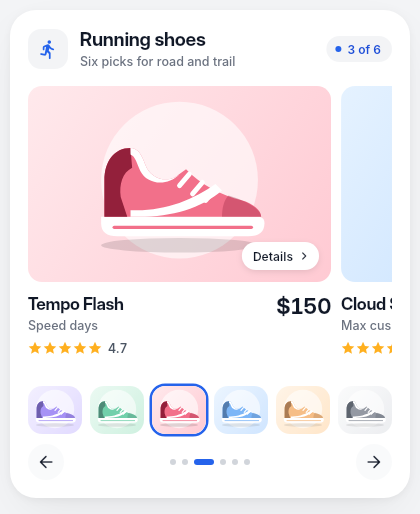
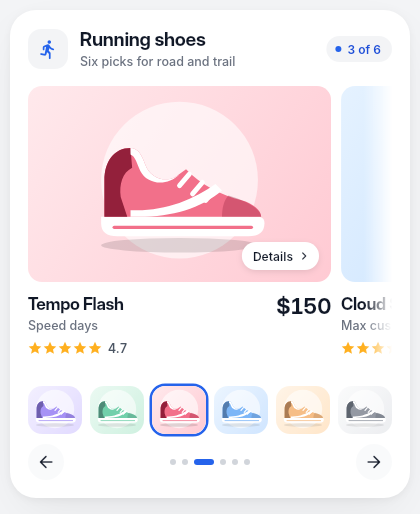
Cards: sideways scrollers fade at their edges by default (carousel, gallery strip, wide tables, comparison)
Claude-Session: https://claude.ai/code/session_019VxYXZ8BzY8THaUBbQA8TM

Changed region(s): [[0.8667, 0.1556, 0.9595, 0.6848]]

diff --git a/design_systems/cards/tool/blocks.py b/design_systems/cards/tool/blocks.py
@@ -817,18 +817,17 @@ def page_dots():
 
 
 def wide_scroll():
-    fade = {'foregroundPainter': [{'op': 'rect', 'rect': ['${= size.width - 28}', 0, 28, '${size.height}'], 'when': '${props.fade}',
-            'paint': "${= {'shader': {'type': 'linear', 'begin': 'centerLeft', 'end': 'centerRight', 'stops': [{'position': 0, 'color': alpha(theme.colors.card, 0)}, {'position': 1, 'color': theme.colors.card}]}}}"}]}
     nodes = {
-        'frame': col(['scroller'], customPaint=fade),
-        'scroller': node('row', {'width': FILL, 'height': HUG}, {'scrollable': True, 'scrollDirection': 'horizontal', 'crossAxisAlignment': 'start'}, ['inner']),
-        'inner': node('column', {'width': 640, 'height': HUG, 'padding': [0, 0, 20, 0]}, {'crossAxisAlignment': 'stretch', 'spacing': 0}, ['slot'],
+        'frame': col(['scroller']),
+        'scroller': node('row', {'width': FILL, 'height': HUG}, {'scrollable': True, 'scrollDirection': 'horizontal', 'crossAxisAlignment': 'start', 'edgeFade': 28}, ['inner'],
+                         bind={'props.edgeFade': '${= props.fade ? 28 : 0}'}),
+        'inner': node('column', {'width': 640, 'height': HUG}, {'crossAxisAlignment': 'stretch', 'spacing': 0}, ['slot'],
                       bind={'layout.width': '${props.width}'}),
         'slot': {'type': 'slot'},
     }
     props = [P('width', NUM, 640, 'How wide the content inside is laid out, in pixels (wider than the card).', True),
-             P('fade', BOOL, True, 'A soft fade at the right edge that says there is more.')]
-    return component('WideScroll', "A frame that scrolls sideways for content wider than the card (a table with many columns): write WideScroll width:640 and the wide blocks indented under it (TableHeader, each row, TableRow) are laid out that wide and scroll together; a fade at the right edge shows there is more.",
+             P('fade', BOOL, True, 'The edges fade where there is more to scroll to (false: a hard edge).')]
+    return component('WideScroll', "A frame that scrolls sideways for content wider than the card (a table with many columns): write WideScroll width:640 and the wide blocks indented under it (TableHeader, each row, TableRow) are laid out that wide and scroll together; its edges fade where there is more to scroll to (fade:false turns that off).",
                      props, nodes, 'frame', children=True, previews=[{'name': 'Frame', 'size': [340, 40], 'props': {}}])
 
 
@@ -888,8 +887,9 @@ def carousel():
     f = lambda key, fallback="''": "${= coalesce(item.%s, %s)}" % (key, fallback)
     nodes = {
         'wrap': col(['pages', 'thumbs', 'bar'], 10),
-        'pages': node('pageView', {'width': FILL, 'height': 290}, {'viewportFraction': 0.86, 'scrollDirection': 'horizontal', 'padEnds': False},
+        'pages': node('pageView', {'width': FILL, 'height': 290}, {'viewportFraction': 0.86, 'scrollDirection': 'horizontal', 'padEnds': False, 'edgeFade': 28},
                       ['page'], bind={'props.initialPage': '${props.value}', 'data': '${props.items}', 'props.viewportFraction': '${props.peek}',
+                                      'props.edgeFade': '${= props.fade && props.peek < 1 ? 28 : 0}',
                                       'layout.height': '${= props.height + 94}'},
                       actions=[{'trigger': {'type': 'changed'}, 'actions': [setv('props.value', '${result.index}'), fire('onChanged', '${result.index}')]}]),
         'page': node('column', {'width': FILL, 'height': FILL, 'padding': [0, 0, 10, 0]}, {'crossAxisAlignment': 'stretch'}, ['tile'],
@@ -929,6 +929,7 @@ def carousel():
         P('thumbs', BOOL, False, 'A strip of small drawn thumbnails to tap.'),
         P('cta', STRING, '', 'A small pill on each picture that invites a tap, such as Details (empty: none).'),
         P('height', NUM, 196, "The pictures' height."),
+        P('fade', BOOL, True, 'The peeking next item fades at the edge (false: a hard edge).'),
     ]
     return component('Carousel', "A real carousel of products: Carousel =i items:=shoes slides one ProductTile per record (name, detail, price, rating, kind, tone) sideways by swipe, showing the edge of the next (peek), and keeps the position (from 0) in your number variable; dots, arrows, counter (\"2 of 6\") and thumbs are switches; a tap on an item fires onPressed with its position (-> open=true), and Pager or PageDots on the same variable drive it too.",
                      props, nodes, 'wrap', events=[('onPressed', 'An item was tapped; the value is its position.'),
@@ -1028,24 +1029,34 @@ def comparison_table():
     HEAD, CELL, FOOT, LABEL = 98, 46, 58, 84
     colw = '(%s ? props.columnWidth : 140)' % wide
     picked = lambda i: "(%s > %d && at(props.names, %d) == props.pick)" % (n, i, i)
-    fade = {'foregroundPainter': [{'op': 'rect', 'rect': ['${= size.width - 26}', 0, 26, '${size.height}'], 'when': E(wide),
-            'paint': "${= {'shader': {'type': 'linear', 'begin': 'centerLeft', 'end': 'centerRight', 'stops': [{'position': 0, 'color': alpha(theme.colors.card, 0)}, {'position': 1, 'color': theme.colors.card}]}}}"}]}
     rule = {'strokes': [{'color': 'line'}], 'strokeWidth': 1, 'strokeSides': 'top'}
     nodes = {
-        'table': row(['labels', 'scrollBox'], 0, cross='start'),
-        # the label column stays in place
-        'labels': node('column', {'width': LABEL, 'height': HUG}, {'crossAxisAlignment': 'stretch'}, ['corner', 'labelRows']),
+        # The columns scroll under the label column, which is laid over them and stays in place.
+        'table': node('stack', {'width': FILL, 'height': HUG}, children=['scrollCol', 'labels']),
+        # The engine's edgeFade is set on the scroller, but with this content it neither fades nor clips (see NOTES,
+        # limits): so the frame clips, and the trailing edge is also faded by a painted gradient in the card color.
+        'scrollCol': col(['scroller'], decoration={'clip': 'hardEdge'}, customPaint={'foregroundPainter': [
+            {'op': 'rect', 'rect': ['${= size.width - 28}', 0, 28, '${size.height}'], 'when': E('%s && props.fade' % wide),
+             'paint': "${= {'shader': {'type': 'linear', 'begin': 'centerLeft', 'end': 'centerRight', 'stops': [{'position': 0, 'color': alpha(theme.colors.card, 0)}, {'position': 1, 'color': theme.colors.card}]}}}"}]}),
+        'labels': node('column', {'width': LABEL + 14, 'height': HUG, 'x': 0, 'y': 0, 'padding': [0, 0, 14, 0]}, {'crossAxisAlignment': 'stretch'},
+                       ['corner', 'labelRows', 'labelFoot'],
+                       decoration={'fills': [{'type': 'linear', 'begin': 'centerLeft', 'end': 'centerRight', 'stops': [
+                           {'position': 0, 'color': 'card'}, {'position': 0.857, 'color': 'card'}, {'position': 1, 'color': '#00FFFFFF'}]}]},
+                       bind={'decoration.fills[0].stops[2].color': '${= alpha(theme.colors.card, 0)}'}),
         'corner': node('column', {'width': FILL, 'height': HEAD, 'padding': [0, 0, 0, 12]}, {'mainAxisAlignment': 'end', 'crossAxisAlignment': 'start'},
                        ['cornerText']),
         'cornerText': text('${props.corner}', 'eyebrow'),
+        'labelFoot': node('spacer', {'width': 1, 'height': FOOT}),
         'labelRows': vlist(['rl'], 0, '${props.rows}'),
         'rl': node('row', {'width': FILL, 'height': CELL, 'padding': [0, 0, 6, 0]}, None, ['rlText'], decoration=dict(rule)),
         'rlText': text('${= at(item, 0)}', {'from': 'meta', 'fontWeight': 600}, FILL, color='inkSoft', maxLines=2, overflow='ellipsis'),
-        # the option columns scroll sideways when there are more than two
-        'scrollBox': node('column', {'width': FILL, 'height': HUG, 'flex': 1}, {'crossAxisAlignment': 'stretch'}, ['scroller'], customPaint=fade),
-        'scroller': node('row', {'width': FILL, 'height': HUG}, {'scrollable': True, 'scrollDirection': 'horizontal', 'crossAxisAlignment': 'start'},
-                         ['k%d' % i for i in range(COMPARE)] + ['tail']),
-        'tail': node('spacer', {'width': 18, 'height': 1}, bind={'visible': E(wide)}),
+        'scroller': node('row', {'width': FILL, 'height': HUG},
+                         {'scrollable': True, 'scrollDirection': 'horizontal', 'crossAxisAlignment': 'start', 'edgeFade': 28},
+                         ['strip'], bind={'props.edgeFade': '${= props.fade ? 28 : 0}'}),
+        'strip': node('row', {'width': HUG, 'height': HUG}, {'crossAxisAlignment': 'start'},
+                      ['lead'] + ['k%d' % i for i in range(COMPARE)] + ['tail']),
+        'lead': node('spacer', {'width': LABEL, 'height': 1}),
+        'tail': node('spacer', {'width': 20, 'height': 1}, bind={'visible': E(wide)}),
     }
     for i in range(COMPARE):
         vis = E('%s > %d' % (n, i))
@@ -1097,6 +1108,7 @@ def comparison_table():
         P('cta', STRING, 'Choose', 'The label of the button under each column.'),
         P('corner', STRING, '', 'A small caps label in the top-left corner (optional).'),
         P('columnWidth', NUM, 124, 'The width of a column when there are more than two (they then scroll sideways).'),
+        P('fade', BOOL, True, 'The scrolling columns fade at the edge where there are more (false: a hard edge).'),
     ]
     return component('ComparisonTable', "Two to five options compared side by side: names and prices head the columns, rows is a list of [label, value per column..., winner] where winner is the winning column's number (1 to 5; 0 a tie) and gets a check; pick names the recommended column (tinted); with more than two options the columns scroll sideways while the labels stay in place; the Choose button under each column fires onChoose with that name as result.",
                      props, nodes, 'table', events=[('onChoose', "A column's button was tapped; the value is its name.")],
@@ -1364,8 +1376,10 @@ def photo_gallery():
         'thumb': node('Media', {'width': FILL, 'height': 92}, {'kind': 'mountain'}, bind=dict(kind)),
         'caption': cap('caption'),
         # a strip that scrolls sideways
-        'strip': node('listView', {'width': FILL, 'height': 150}, {'scrollable': True, 'spacing': 10, 'scrollDirection': 'horizontal'}, ['tile'],
-                      bind={'data': '${props.photos}', 'visible': "${= props.layout == 'strip' && %s}" % closed}),
+        'strip': node('row', {'width': FILL, 'height': 150}, {'scrollable': True, 'scrollDirection': 'horizontal', 'edgeFade': 28}, ['stripList'],
+                      bind={'visible': "${= props.layout == 'strip' && %s}" % closed, 'props.edgeFade': '${= props.fade ? 28 : 0}'}),
+        'stripList': node('listView', {'width': HUG, 'height': 150}, {'scrollable': False, 'spacing': 10, 'scrollDirection': 'horizontal'}, ['tile'],
+                          bind={'data': '${props.photos}'}),
         'tile': col(['tileArt', 'tileCaption'], 6, width=168, height=FILL, states={'pressed': {'tile': PRESS}}, actions=open_it),
         'tileArt': node('Media', {'width': FILL, 'height': 124}, {'kind': 'mountain'}, bind=dict(kind)),
         'tileCaption': cap('tileCaption'),
@@ -1419,6 +1433,7 @@ def photo_gallery():
         P('layout', enum('grid', 'strip', 'pages'), 'grid', 'grid (rows of thumbnails), strip (one row that scrolls sideways) or pages (one full-width photo at a time, swiped, with dots).'),
         P('dots', BOOL, True, 'Pagination dots under the paged and the large view.'),
         P('columns', INT, 3, 'Thumbnails per row of the grid.'),
+        P('fade', BOOL, True, 'The strip fades at the edge where there are more photos (false: a hard edge).'),
     ]
     return component('PhotoGallery', "A photo gallery with a built-in large view: PhotoGallery =open photos:[{\"kind\":\"harbor\",\"caption\":\"Harbour at sunrise\"},...] draws each photo as a scene (kind: %s; optional tone: dawn, day, dusk, night); layout is grid, strip (one row that scrolls sideways) or pages (full-width photos swiped one at a time, with dots); tapping a photo opens it large with its caption, a \"3 of 9\" counter, dots, arrows and a close button, and a swipe there goes to the next; your variable holds the photo in view (0: none open)." % scenes,
                      props, nodes, 'gallery', events=[('onChanged', 'A photo was opened, changed or closed; the value is its number (0: closed).')],

diff --git a/examples/showcase/NOTES.md b/examples/showcase/NOTES.md
@@ -163,8 +163,15 @@ Five more cards show the sliding and wide blocks: `comparison_wide` (four plans,
 18. **A bound width is a number**, so `ComparisonTable`'s two-column form uses 140 px columns (it fills a 420 card
     exactly; a wider card leaves room at the right). Its rows have a fixed height (two lines of text at most) so
     the pinned labels and the scrolling columns line up.
-19. **The edge fade is constant**: it does not go away at the end of the scroll (no scroll position to read).
-    A wide table's first column is not pinned; only `ComparisonTable` keeps its labels in place.
+19. **Sideways scrollers fade at their edges with the engine's `edgeFade`** (28 px, by scroll position; `fade:false`
+    turns it off): `Carousel`, `PhotoGallery`'s strip and `WideScroll`. **In `ComparisonTable` the same property has
+    no effect**: the scrolling row neither fades nor clips its columns (they drew over the card's padding), with
+    `edgeFade: 28` written statically, with or without a binding, as a direct child of a stack, of a column, or of a
+    flex column, and with or without the opacity-bound chip. I did not find which node of its content causes it. The
+    block therefore clips its frame, lays the label column over the scrolling columns (so nothing shows under it)
+    and paints a trailing fade in the card color, which is constant and assumes the card surface. A wide table's
+    first column is not pinned; only `ComparisonTable` keeps its labels in place. `PhotoGallery`'s `pages` layout
+    has no fade: its pages are full width, so nothing is cut.
 
 ## Honest self-critique
 
